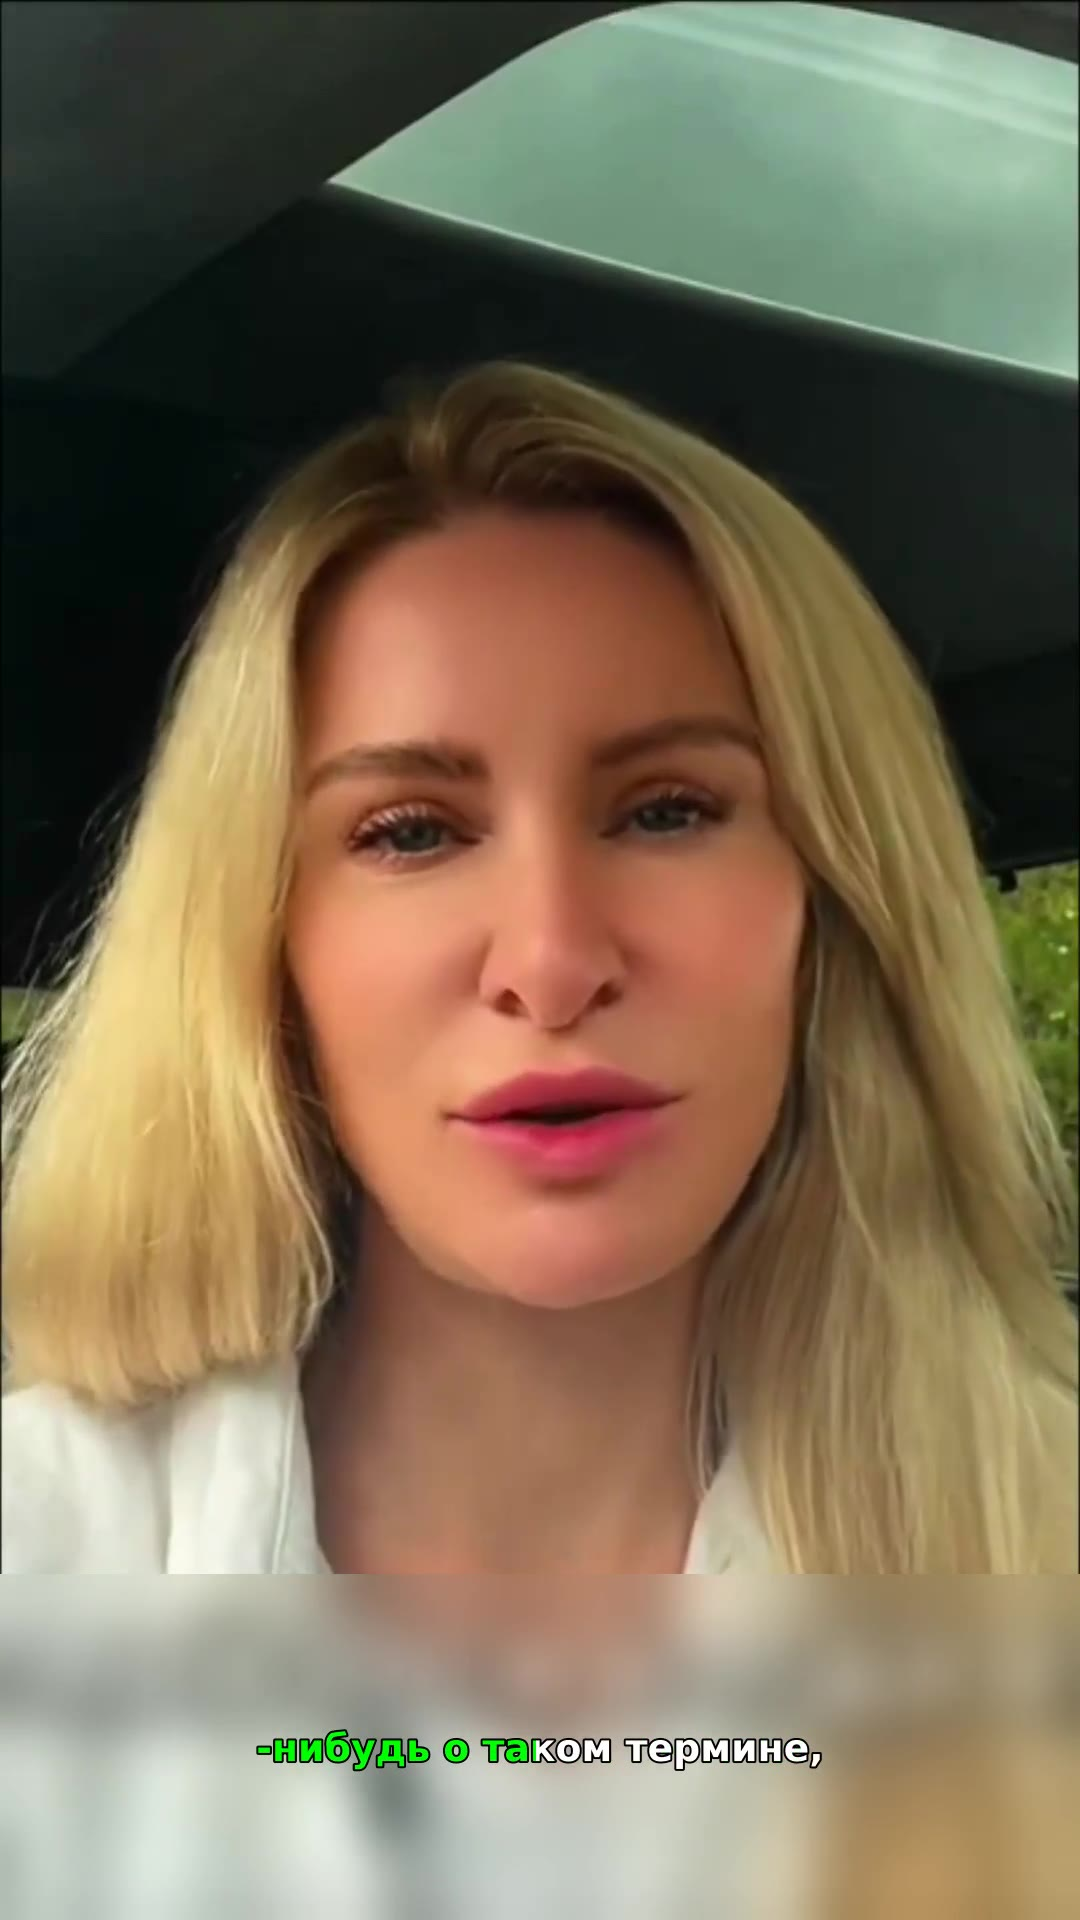
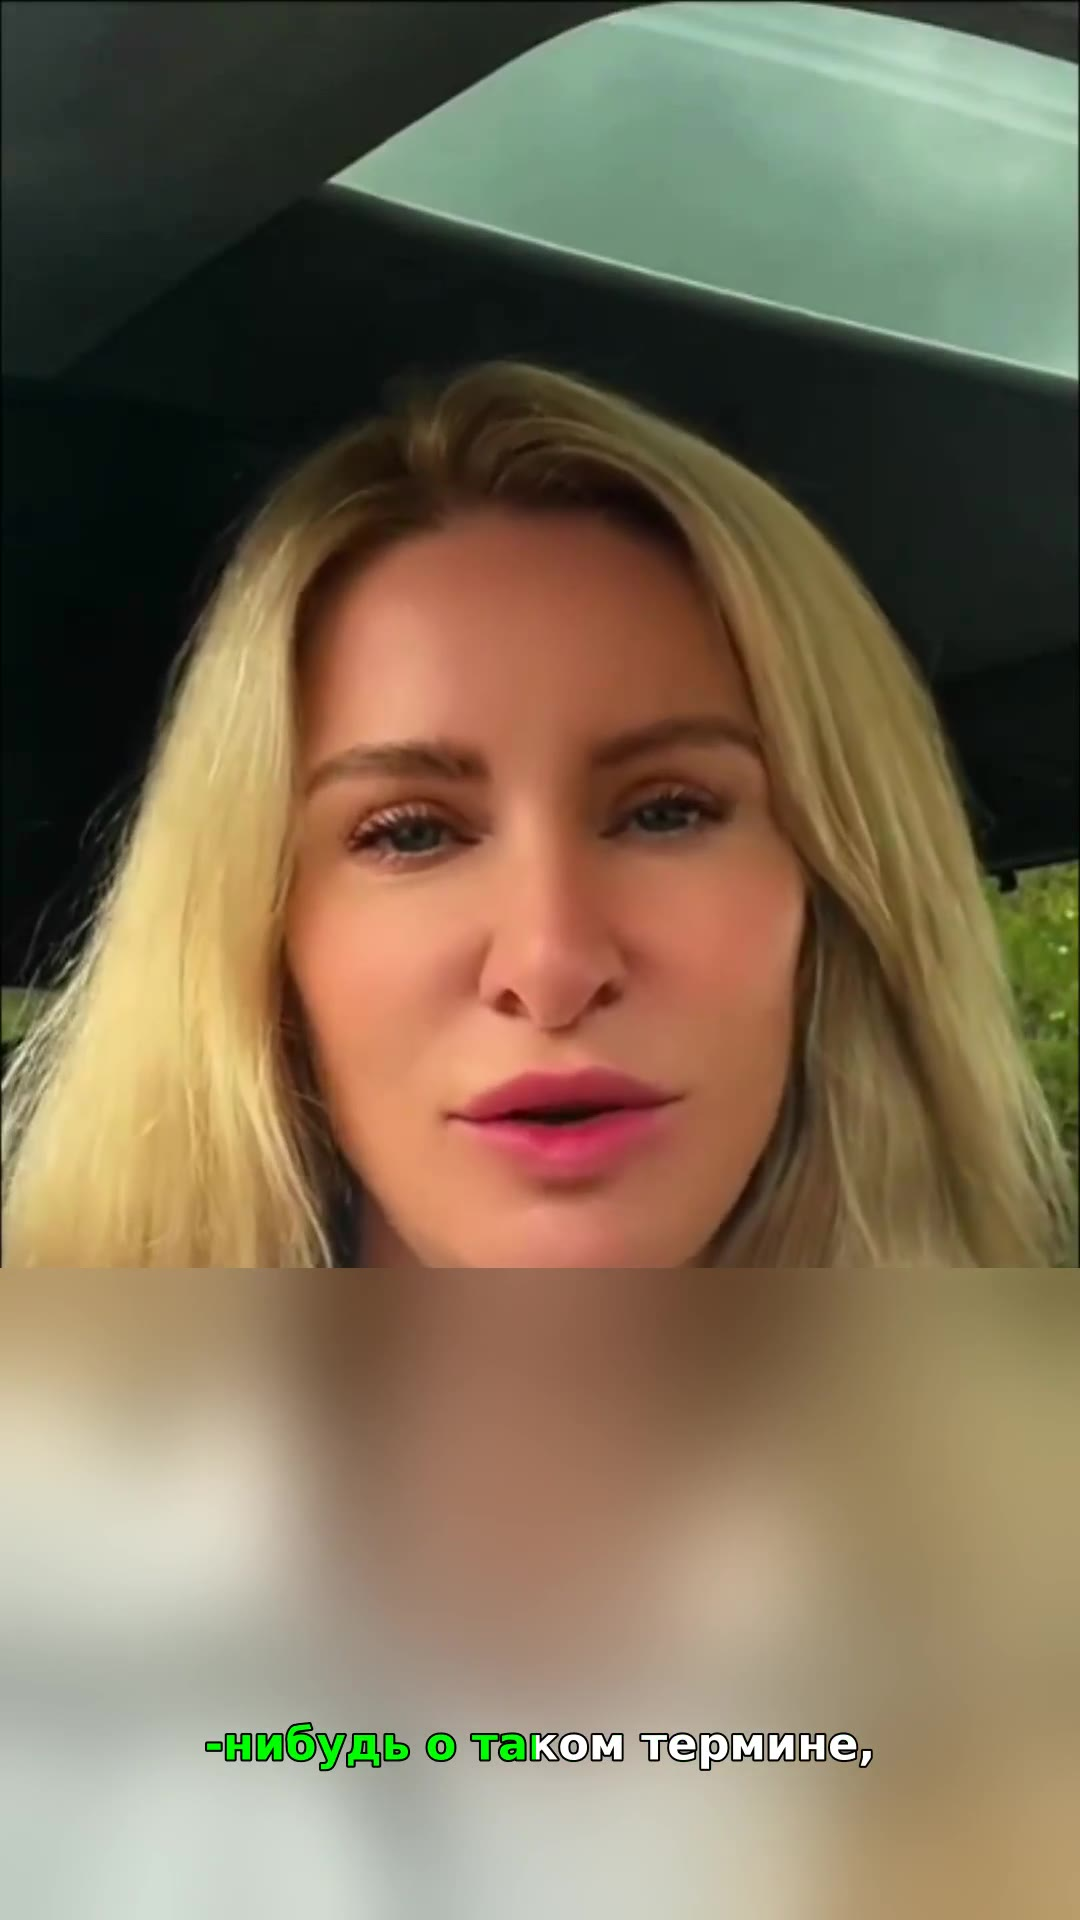
resub: режим SQUEEZE — убрать растяжение (широкое лицо) сжатием по горизонтали + подписи
Claude-Session: https://claude.ai/code/session_01Enk6vGZ7SoHopf37RWhm4e

diff --git a/scripts/resub.py b/scripts/resub.py
@@ -155,6 +155,15 @@ def main():
         raise SystemExit("Не задан VIZARD_PROJECT_ID.")
     clips = query_clips()
     os.makedirs("resub", exist_ok=True)
+    # Готовые подписи по номеру клипа (если задан файл).
+    captions = {}
+    cf = os.environ.get("CAPTIONS_FILE", "").strip()
+    if cf and os.path.exists(cf):
+        import json
+        with open(cf, encoding="utf-8") as f:
+            captions = json.load(f)
+    # Горизонтальное сжатие для «широкого лица» (0.90 = уже на 10%). 0 = выкл.
+    squeeze = float(os.environ.get("SQUEEZE", "0") or "0")
     done = 0
     for idx in INDICES:
         if idx < 1 or idx > len(clips):
@@ -174,6 +183,33 @@ def main():
             os.remove(src)
             done += 1
             print(f"клип {idx}: сырые кадры в resub_preview/")
+            continue
+        # Режим сжатия: убрать растяжение (широкое лицо) — сжать по горизонтали
+        # и вернуть кадр в 9:16 без искажения. Субтитры и всё остальное не трогаем.
+        if squeeze and squeeze > 0:
+            out = f"resub/sq_{idx}.mp4"
+            vf = (f"scale=iw*{squeeze}:ih,scale=1080:-1,"
+                  f"crop=1080:1920:(iw-1080)/2:(ih-1920)/2")
+            subprocess.run(["ffmpeg", "-y", "-i", src, "-vf", vf,
+                            "-c:v", "libx264", "-preset", "veryfast", "-crf", "20",
+                            "-c:a", "aac", "-b:a", "128k", out],
+                           check=True, capture_output=True)
+            cap = captions.get(str(idx)) or f"Ролик {idx}"
+            if os.environ.get("PREVIEW_ONLY", "0") == "1":
+                os.makedirs("resub_preview", exist_ok=True)
+                subprocess.run(["ffmpeg", "-y", "-ss", "1.5", "-i", out, "-frames:v", "1",
+                                "-q:v", "3", f"resub_preview/sq{idx}.jpg"],
+                               check=True, capture_output=True)
+                print(f"клип {idx}: сжат ({squeeze}), кадр в resub_preview/")
+            else:
+                tg.send_video(out, caption=cap)
+                print(f"клип {idx}: сжат ({squeeze}), отправлен")
+            for p in (src, out):
+                try:
+                    os.remove(p)
+                except OSError:
+                    pass
+            done += 1
             continue
         words = transcribe_words(src)
         if not words:
